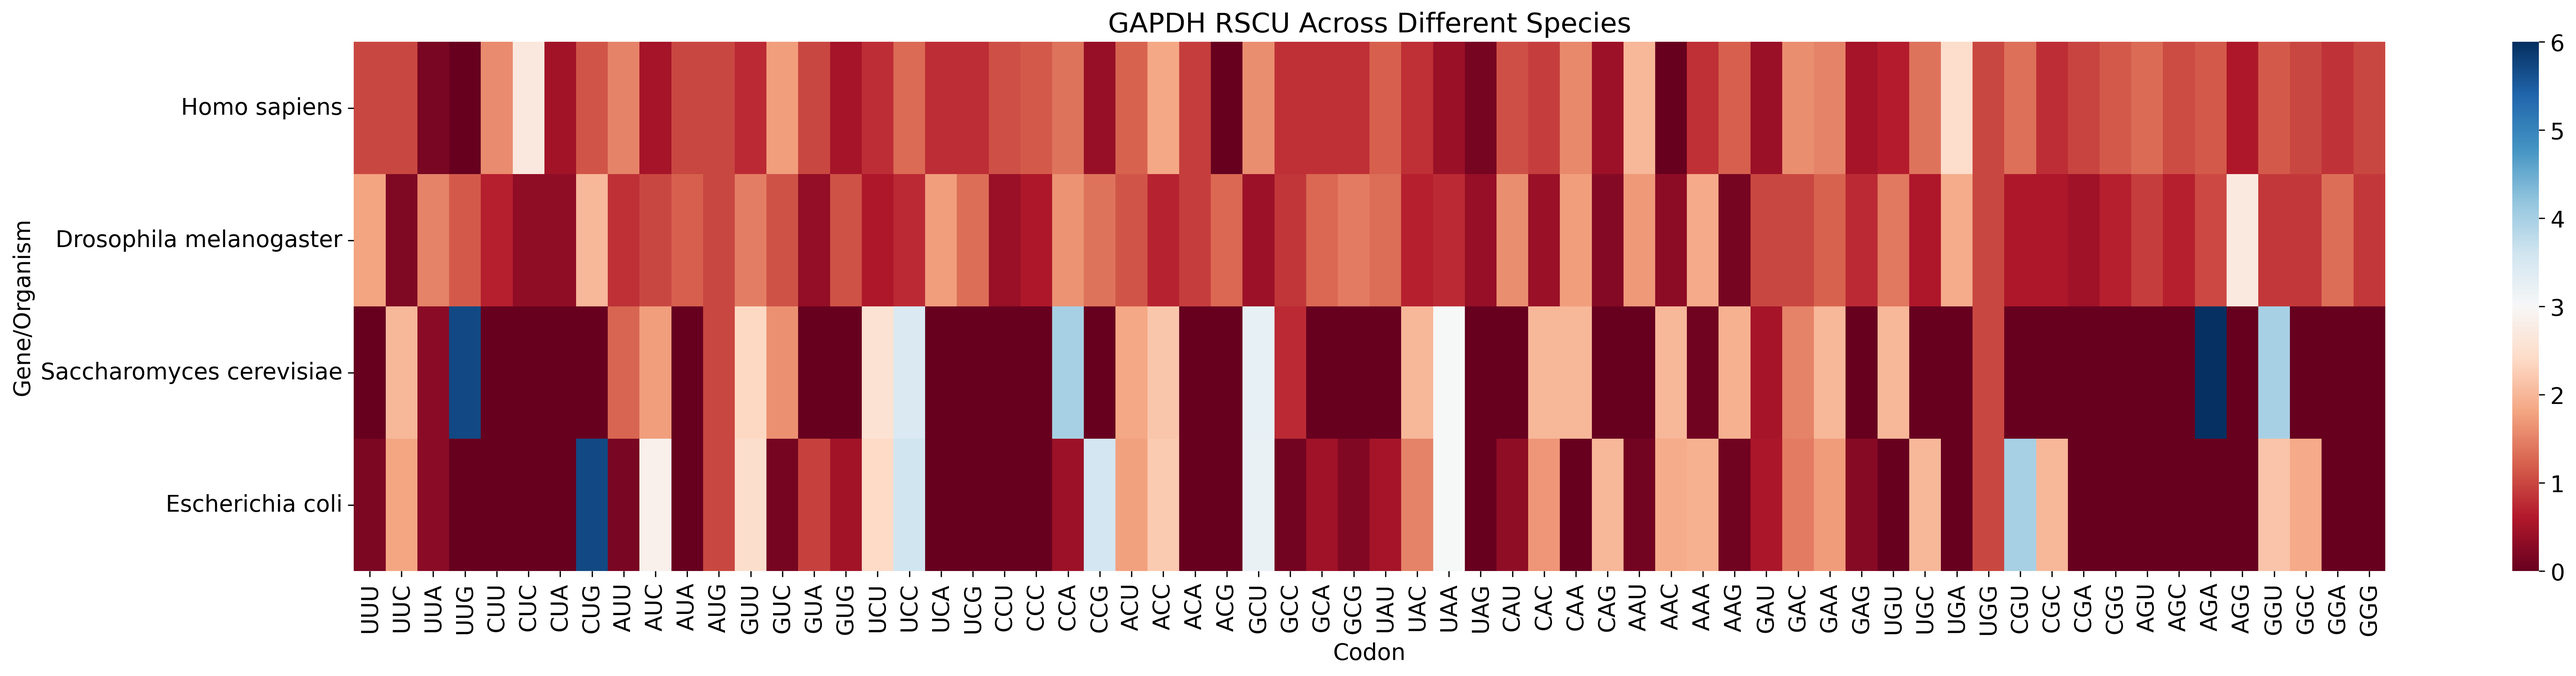
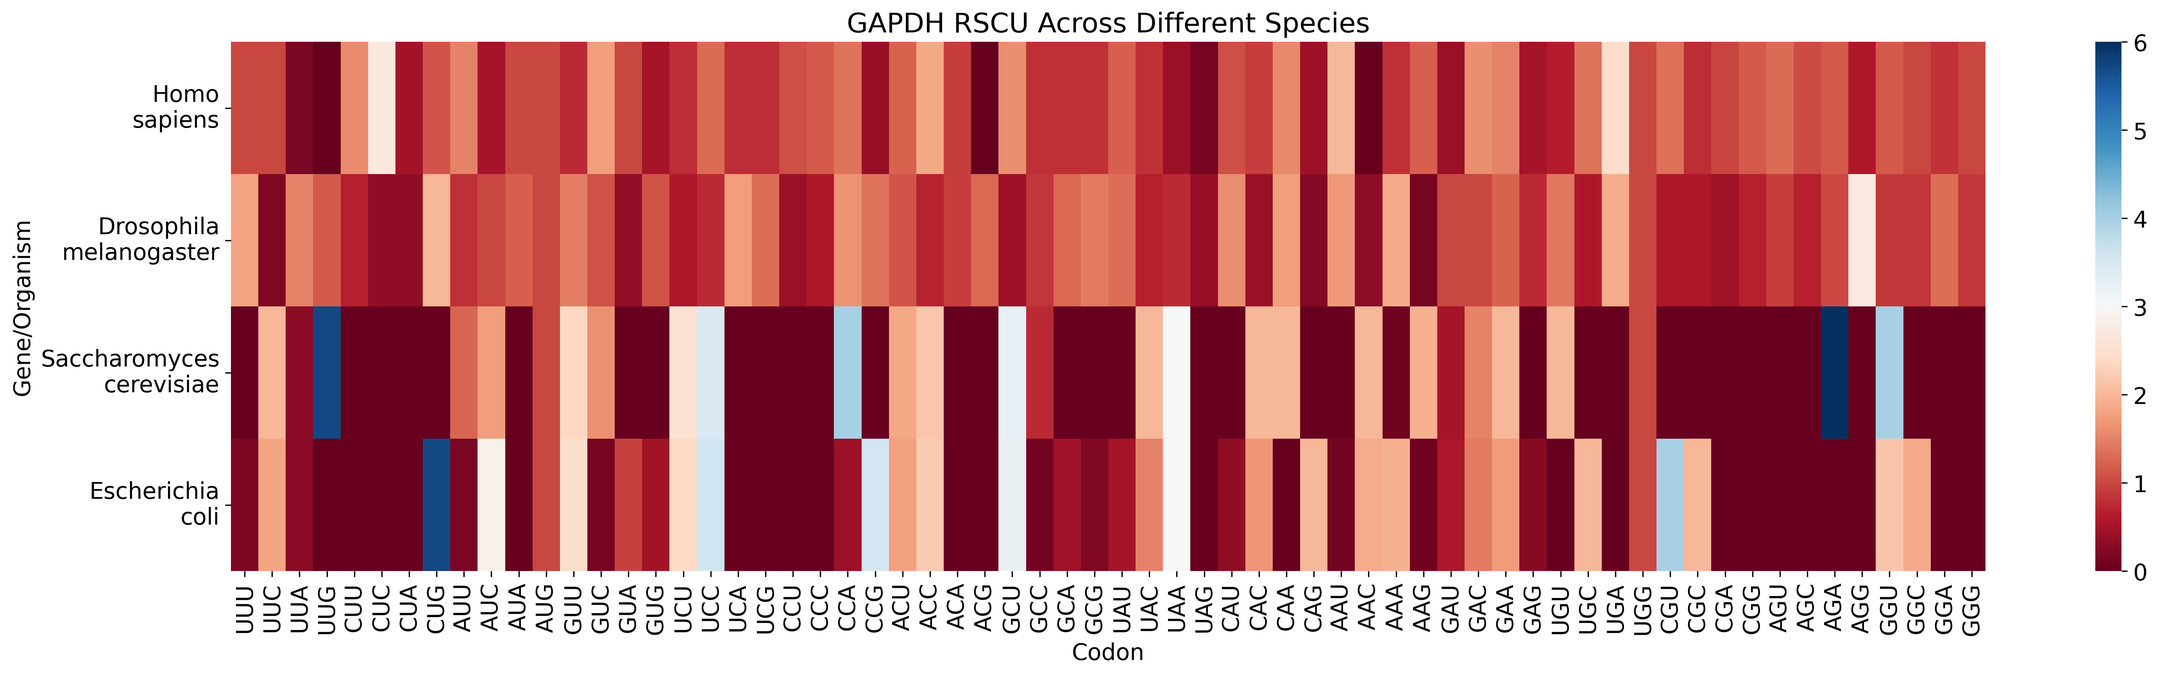
created function to calculate effective number of codons

diff --git a/main.py b/main.py
@@ -65,5 +65,15 @@ plotting.gc(seqs[0], 30, output_filename, output2_filename)
 # rscu heatmap
 heat_name = 'test'
 output_filename = os.path.join(plot_output_dir, f'{heat_name}_codon_usage_heatmap.png')
-species = ['Homo sapiens', 'Drosophila melanogaster', 'Saccharomyces cerevisiae', 'Escherichia coli']
+species = ['Homo\nsapiens', 'Drosophila\nmelanogaster', 'Saccharomyces\ncerevisiae', 'Escherichia\ncoli']
 plotting.rscu_heatmap(species, seqs, 'GAPDH RSCU Across Different Species', output_filename)
+
+# enc
+print(analysis.enc(data)) # for the homo sapian sample, all 61 codons are used
+
+# Generate codon useage bar graph for e.coli data
+safe_name = names[3].replace('|', '_') # can't have : in file names
+output_filename = os.path.join(plot_output_dir, f'{safe_name}_codon_usage.png')
+raw = analysis.analyze_codons(seqs[3], 'dna')
+plotting.bar_count_freq(raw[0], raw[1], "Codon Count and Frequency", "Codon", output_filename)
+print(analysis.enc(raw[0])) # for e. coli, only 41 codons are used

diff --git a/analysis.py b/analysis.py
@@ -103,3 +103,19 @@ def gc(sequence: str):
     g = lower_seq.count('g')
     c = lower_seq.count('c')
     return round((g+c) / len(sequence) * 100, 4)
+
+"""
+Computes the Effective Number of Codons (ENC)
+Ranges from 20 (only one codon used per amino acid)
+to 61 (all codons used )
+
+:param dict codon_usage: the count of codons used (output of analyze_codons)
+:return: the ENC
+:rtype: int
+"""
+def enc(codon_usage):
+    count = 0
+    for key, value in codon_usage.items():
+        if value != 0:
+            count += 1
+    return count

diff --git a/plotting.py b/plotting.py
@@ -145,7 +145,7 @@ def rscu_heatmap(names, seqs, title, filename):
 
         data = pd.concat([data, pd.DataFrame([rscu_value], index=[names[i]])])
 
-    plt.figure(figsize=(25, 6))
+    plt.figure(figsize=(21, 6))
     sns.heatmap(data, annot=False, cmap='RdBu')
     plt.xlabel('Codon')
     plt.ylabel('Gene/Organism')
